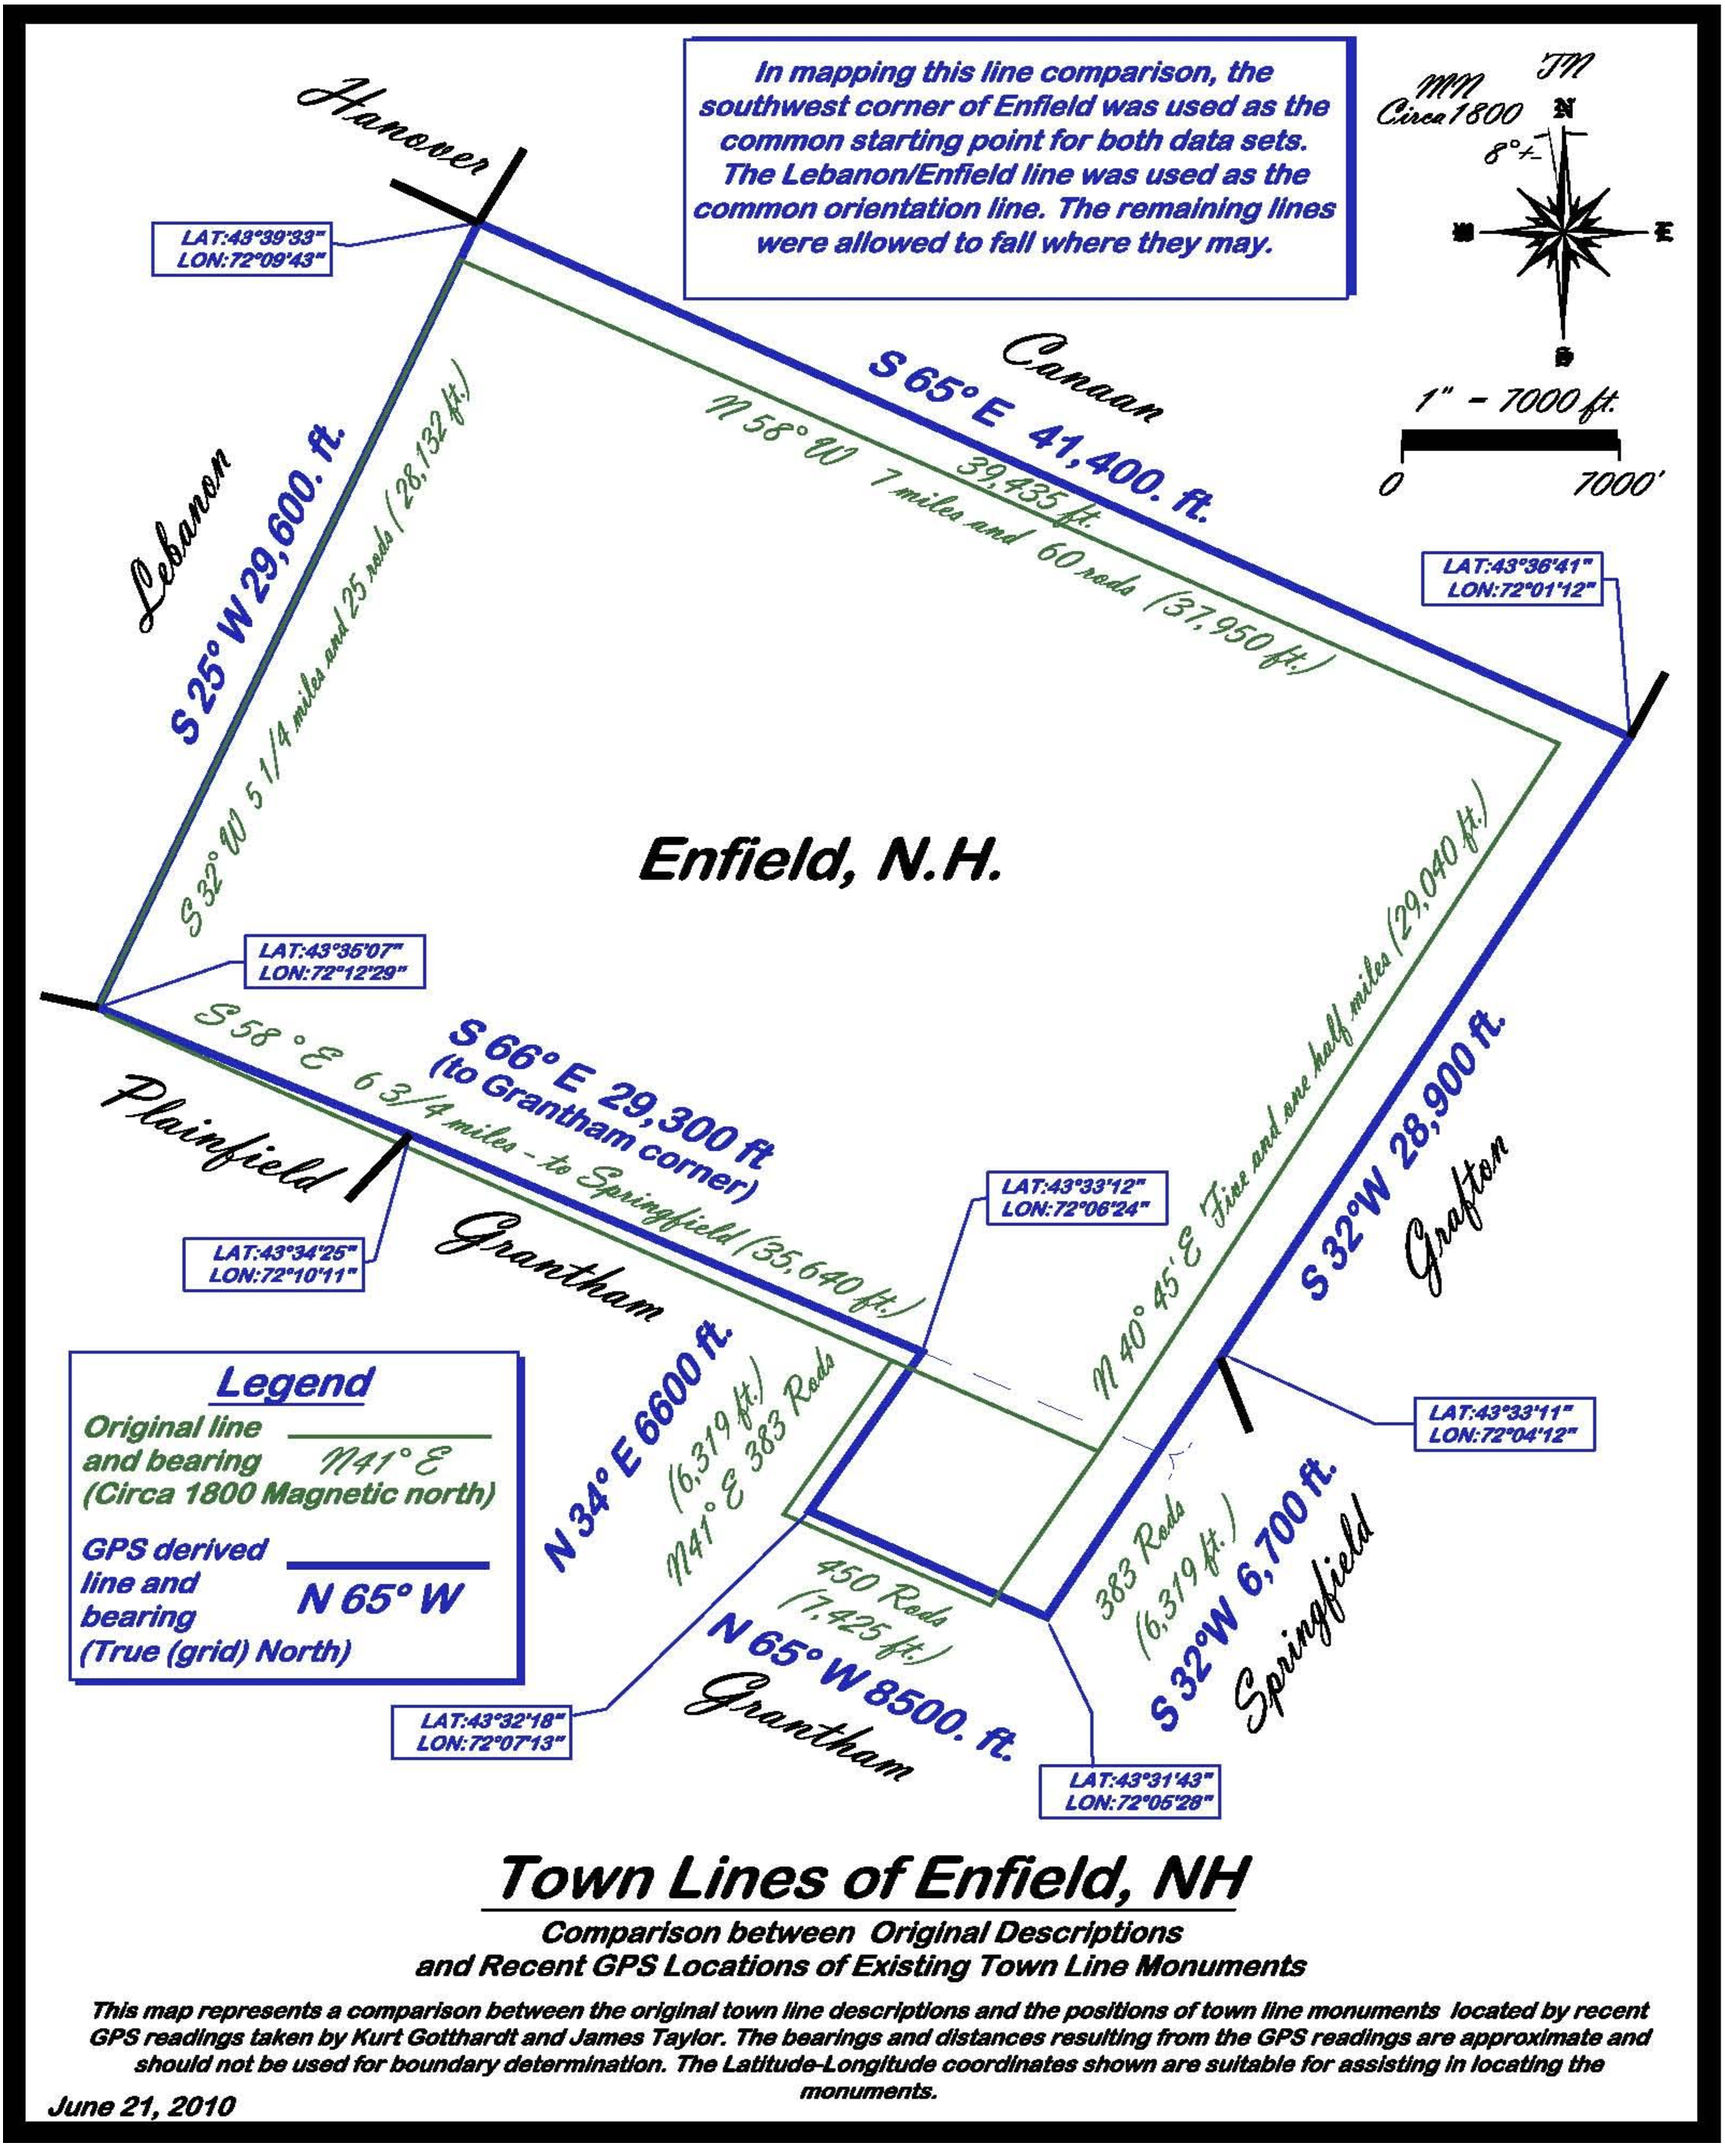
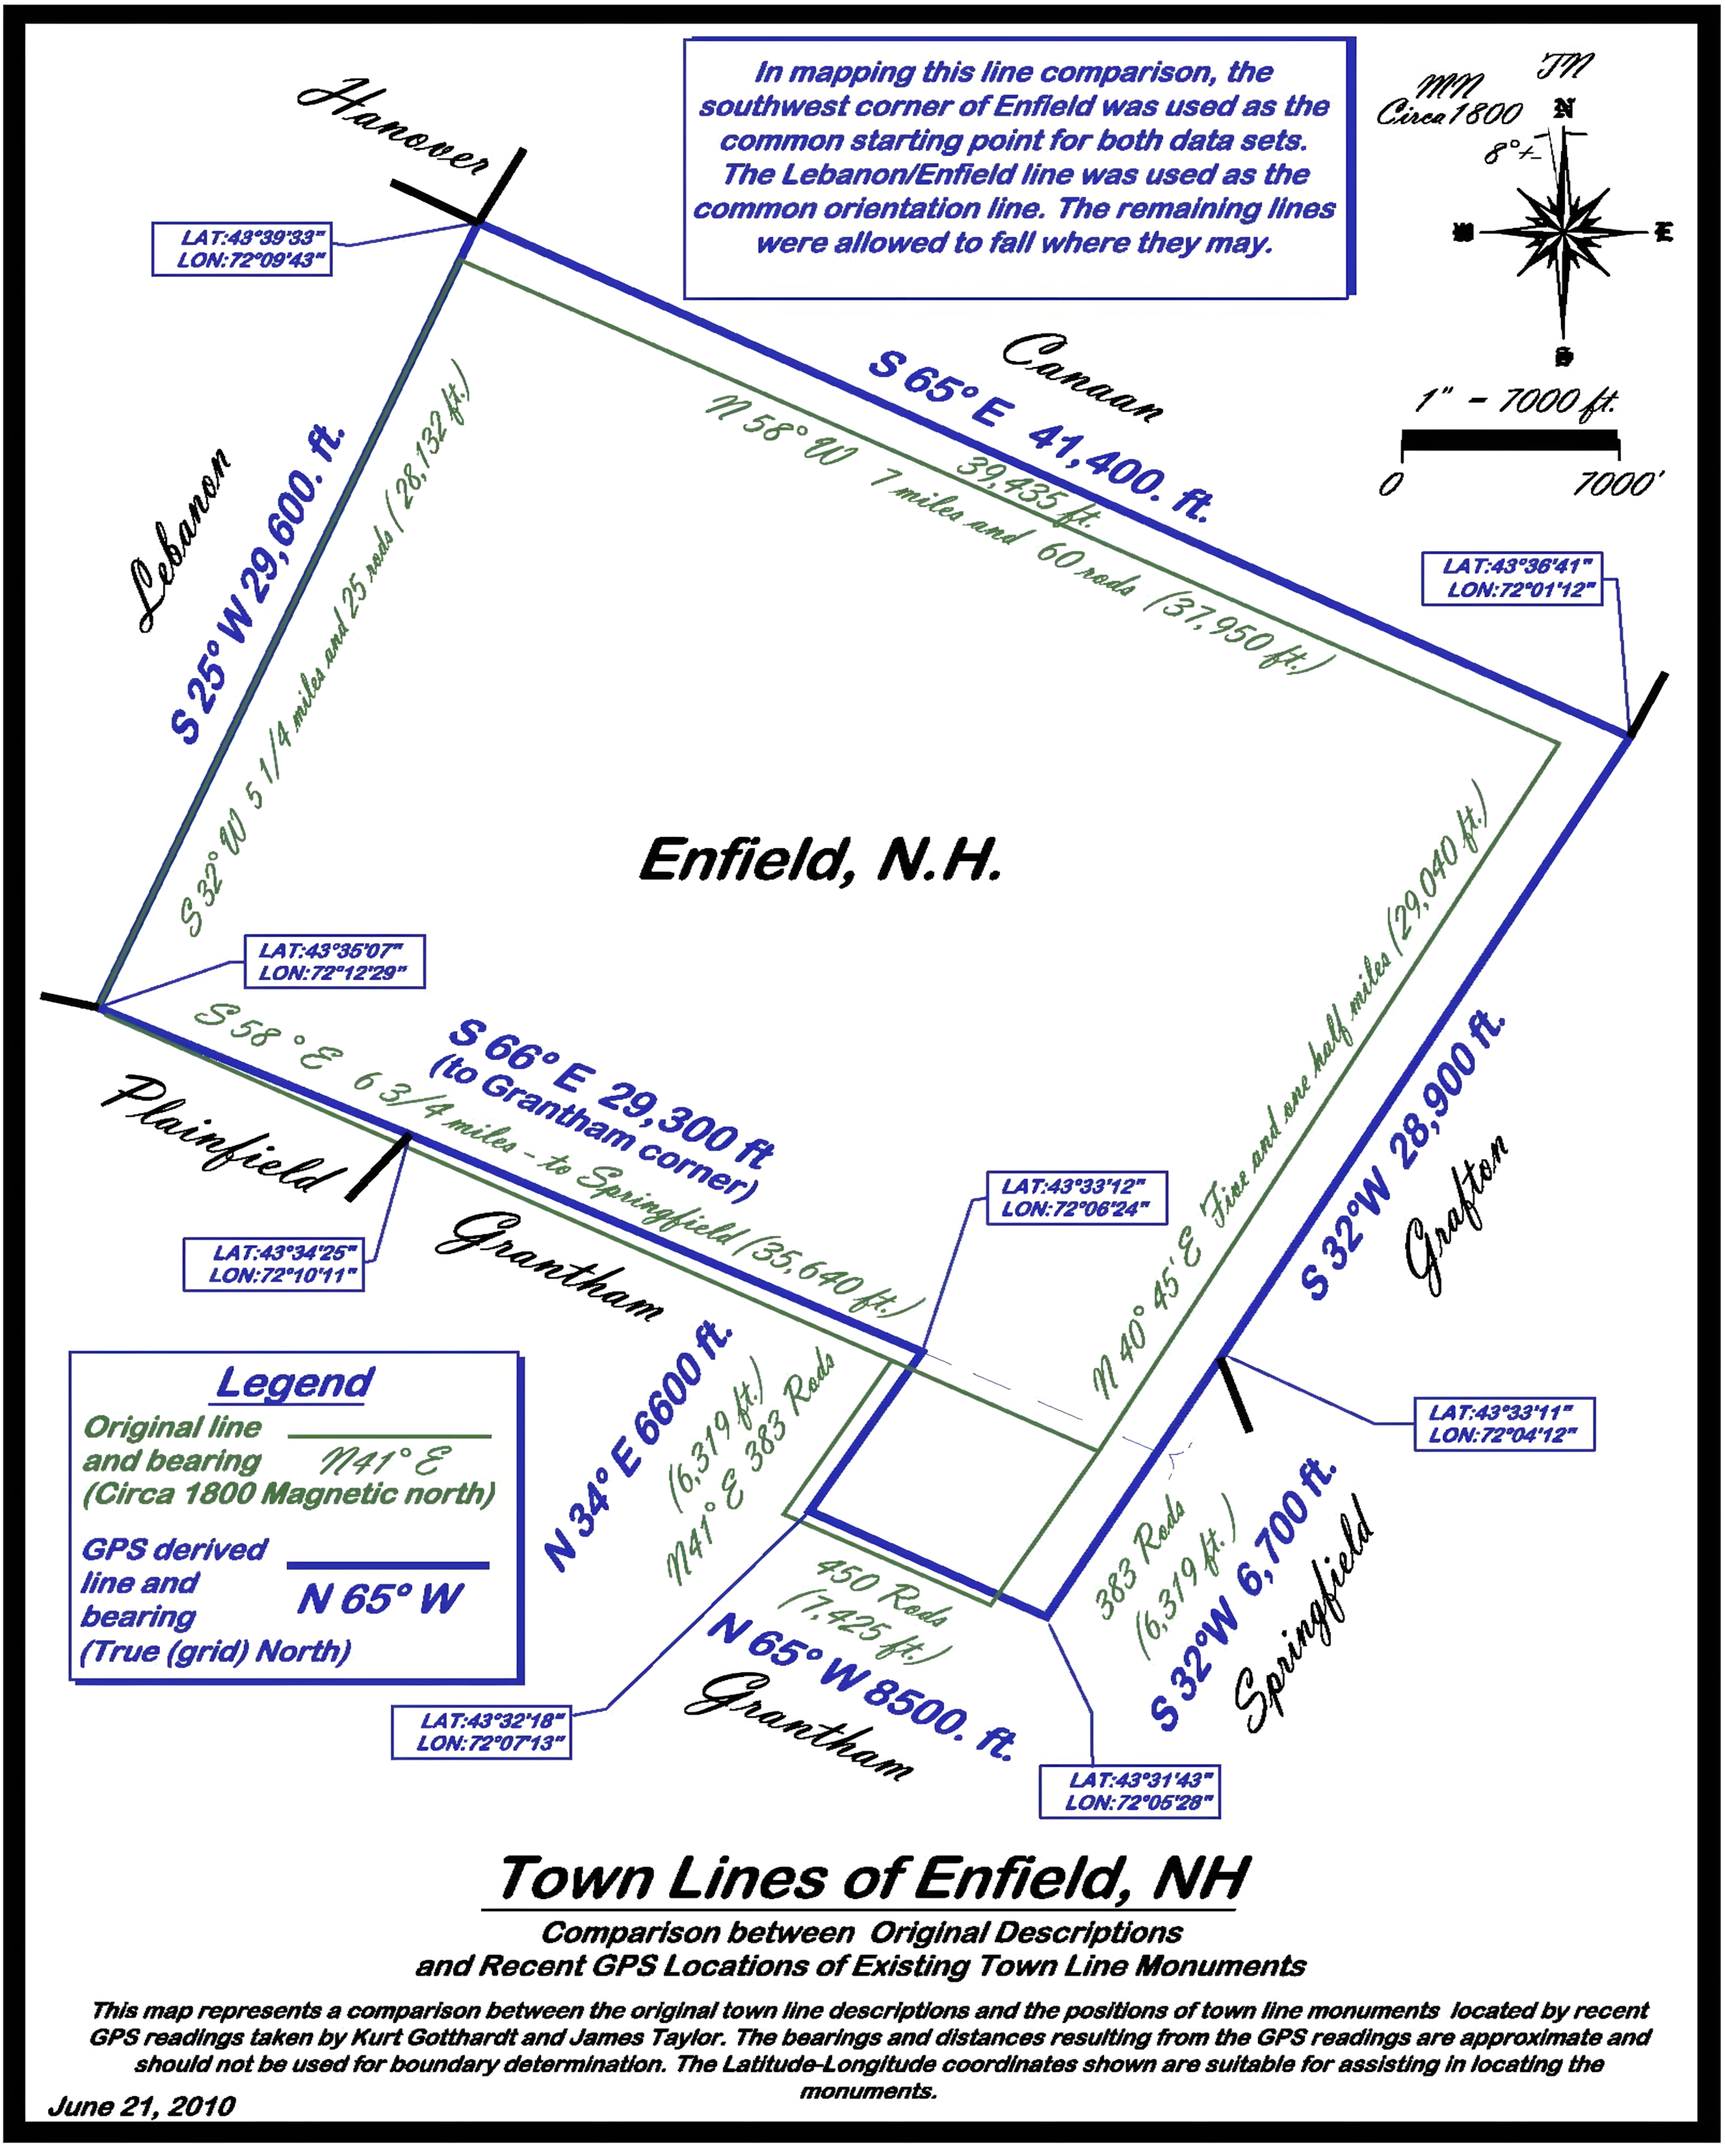
Gotthardt suggested revisions
plus improved page 27 image clarity with
https://github.com/upscayl/upscayl/releases/tag/v2.15.0

diff --git a/content/posts/2025-10-19_perambulator/perambulator.md b/content/posts/2025-10-19_perambulator/perambulator.md
@@ -15,7 +15,7 @@ We searched the vicinity of where the maps showed the intersection, but found no
 
 After four years of reeling in defeat from this failed mission, we set out again.
 This time with a bigger expedition that included my partner in a [new venture](https://radoverlay.com/) and our respective offspring.
-Parking at the Lakeview Cemetery in Enfield, then walking up the Class IV Old County Road, turning right off the path and up the slope towards the Tom Linnell Ridge trail.
+Parking at the Lakeview Cemetery in Enfield, then walking up the Class VI Old County Road, turning right off the path and up the slope towards the Tom Linnell Ridge trail.
 Soon we found the prize.
 <!-- https://www.strava.com/activities/15956675704 -->
 
@@ -31,11 +31,10 @@ New Hampshire law requires that towns perform this act with regularity:
 > The lines between the towns in this state shall be perambulated, and the marks and bounds renewed, once in every 7 years forever, by the selectmen of the towns, or by such persons as they shall in writing appoint for that purpose.
 
 Despite the statute, only 15 of 110 towns [surveyed](https://ftp.granit.unh.edu/submissions/MunicipalBounds/2014%20STATE%20GIS%20SUB%20COMMITTEE%20INFO/Articles/NHMunicipal%20Assoc%20Perambulation%20Data%20Report%202010.pdf "NHMA Perambulation Survey: Total-Sample Data Summary. 2010-07-28") in 2010 had comprehensively walked their lines.
-And a 2017 [bill](https://legiscan.com/NH/bill/SB171/2017, "New Hampshire Senate Bill 171") sought to repeal the duty altogether,
+And a 2017 [bill](https://legiscan.com/NH/bill/SB171/2017 "New Hampshire Senate Bill 171") sought to repeal the duty altogether,
 passing the Senate with a voice vote before the House deemed the matter "inexpedient to legislate".
 
-Gotthardt has participated in XX perambulations of Enfield, first in XXXX and most recently in XXXX.
-<!-- quick bio of Gotthardt, how he became interested in this, his perambulation partner, etc -->
+Gotthardt performed the official 2010 parambulation of Enfield along with Jim Taylor.
 In the case of my search for the HCEL corner, Gotthardt's GPS coordinates for the marker proved critical as well as the report's online availability and indexing by search engines.
 
 In my earlier attempt to locate the quadripoint, I had gone to the location where maps showed the intersection.
